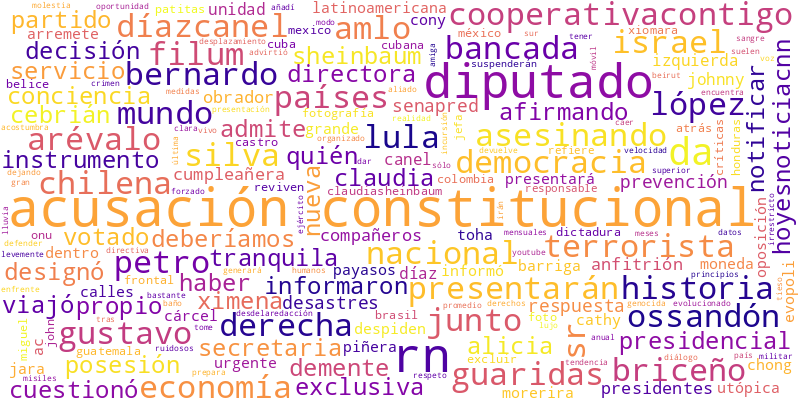
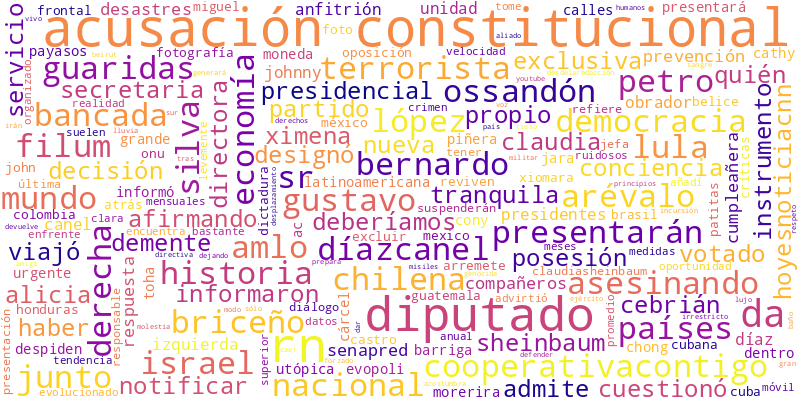
Actualización Wordclouds

diff --git a/src/metricas.py b/src/metricas.py
@@ -1,12 +1,13 @@
 import pandas as pd
+from pathlib import Path
 from datetime import datetime, timedelta, date
 from wordcloud import WordCloud
 import matplotlib.pyplot as plt
 import os
 import re
 from tqdm import tqdm
-from src.config import PROCESSED_DATA_PATH, WORDCLOUD_PATH, PREDICTIONS_PATH, FEATURES_DATASET_PATH
-from src.logger import get_logger
+from config import PROCESSED_DATA_PATH, WORDCLOUD_PATH, PREDICTIONS_PATH, FEATURES_DATASET_PATH
+from logger import get_logger
 logger = get_logger(__name__, "metricas.log")
 
 def clasificar_sentimiento(row):
@@ -164,11 +165,30 @@ def generar_wordclouds_historicos():
     for i, fecha in enumerate(tqdm(sorted(dias_unicos), desc="Wordclouds")):
         generar_wordcloud_para_fecha(fecha)
 
+def generar_wordclouds_pendientes():
+    carpeta_wordclouds = Path("data/wordclouds")  # ajusta si tu carpeta es distinta
+    carpeta_wordclouds.mkdir(parents=True, exist_ok=True)
+
+    fecha_inicio = datetime.strptime("2024-10-01", "%Y-%m-%d").date()
+    fecha_hoy = datetime.today().date()
+    fechas = [fecha_inicio + timedelta(days=i) for i in range((fecha_hoy - fecha_inicio).days + 1)]
+
+    for fecha in tqdm(fechas, desc="🌀 Generando wordclouds pendientes"):
+        archivo_wordcloud = carpeta_wordclouds / f"wordcloud_{fecha}.png"
+
+        if not archivo_wordcloud.exists():
+            try:
+                generar_wordcloud_para_fecha(fecha)
+            except Exception as e:
+                print(f"⚠ Error generando wordcloud para {fecha}: {e}")
+        else:
+            print(f"✅ Wordcloud ya existe para {fecha}")
 
 def main():
-    calcular_metricas()
-    generar_wordcloud_diario()
+    #calcular_metricas()
+    #generar_wordcloud_diario()
     #generar_wordclouds_historicos()  # Ejecuta solo si quieres correr todos
+    generar_wordclouds_pendientes()
 
 if __name__ == "__main__":
     main()

diff --git a/src/features.py b/src/features.py
@@ -99,11 +99,11 @@ class FeatureEngineer:
             # === Variables derivadas ===
             df_daily = df_daily.sort_values("date").reset_index(drop=True)
 
-            df_daily["approval_rolling_7d"] = df_daily["aprobacion_boric"].shift(1).rolling(window=7, min_periods=7).mean()
+            df_daily["approval_rolling_7d"] = df_daily["aprobacion_boric"].shift(1).rolling(window=7, min_periods=7).mean().fillna(method="ffill") 
             df_daily["approval_lag_7d"] = df_daily["aprobacion_boric"].shift(7)
             df_daily["approval_lag_14d"] = df_daily["aprobacion_boric"].shift(14)
 
-            df_daily["disapproval_rolling_7d"] = df_daily["desaprobacion_boric"].shift(1).rolling(window=7, min_periods=7).mean()
+            df_daily["disapproval_rolling_7d"] = df_daily["desaprobacion_boric"].shift(1).rolling(window=7, min_periods=7).mean().fillna(method="ffill") 
             df_daily["disapproval_lag_7d"] = df_daily["desaprobacion_boric"].shift(7)
             df_daily["disapproval_lag_14d"] = df_daily["desaprobacion_boric"].shift(14)
 

diff --git a/src/main.py b/src/main.py
@@ -17,7 +17,7 @@ from src.preprocessing import TweetPreprocessor
 from src.features import FeatureEngineer
 from src.modeling import ModelTrainer
 from src.predict import Predictor
-from src.metricas import calcular_metricas, generar_wordcloud_diario
+from src.metricas import calcular_metricas, generar_wordcloud_diario, generar_wordclouds_pendientes
 from src.utils import generar_resumen_diario, enviar_resumen_por_email
 import os
 import subprocess
@@ -114,7 +114,7 @@ def main():
     print(f"Comenzamos el cálculo de métricas")
     calcular_metricas()
     print(f"Comenzamos el armado de la wordcloud")
-    generar_wordcloud_diario()
+    generar_wordclouds_pendientes()
     
     # === Generar y enviar resumen diario ===
     print("Generando resumen diario...")
